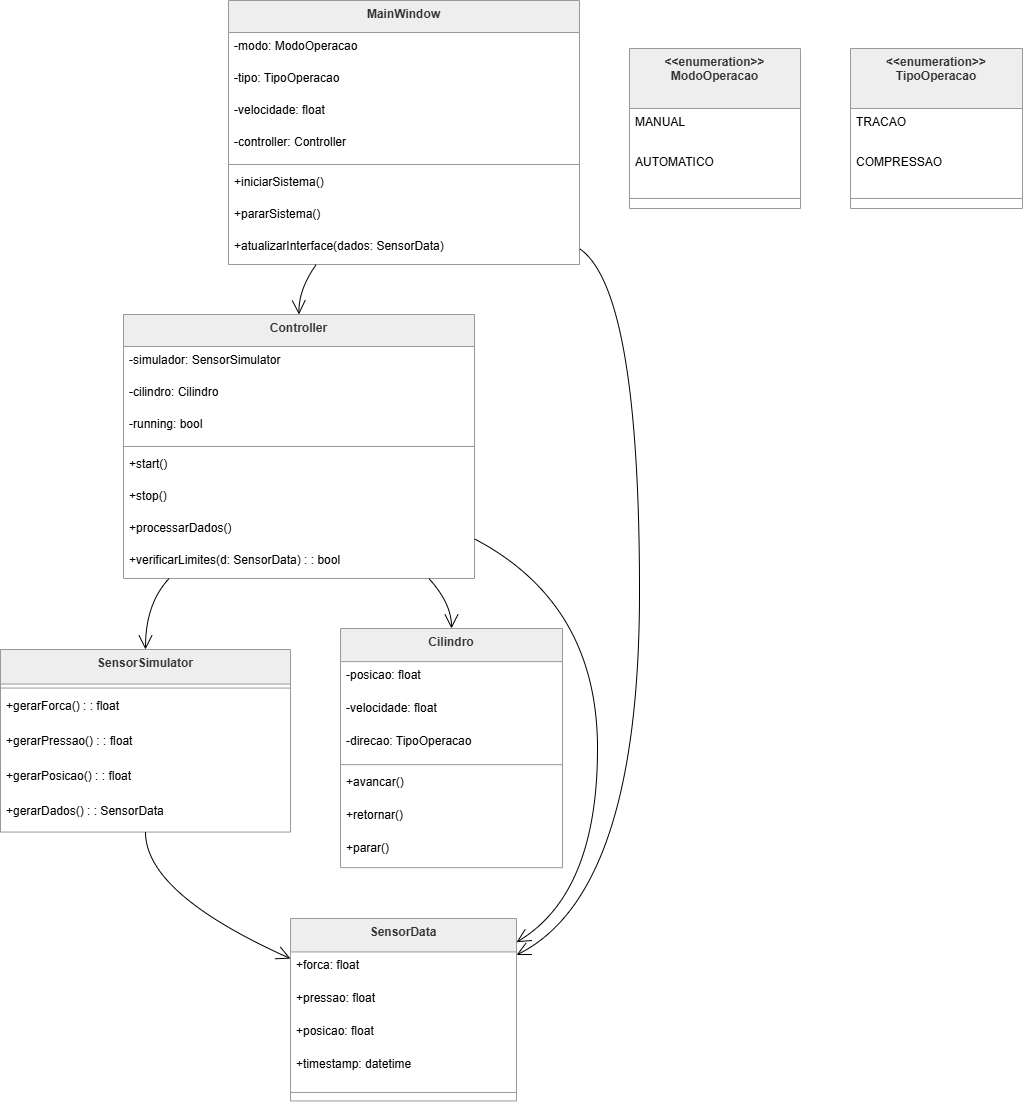
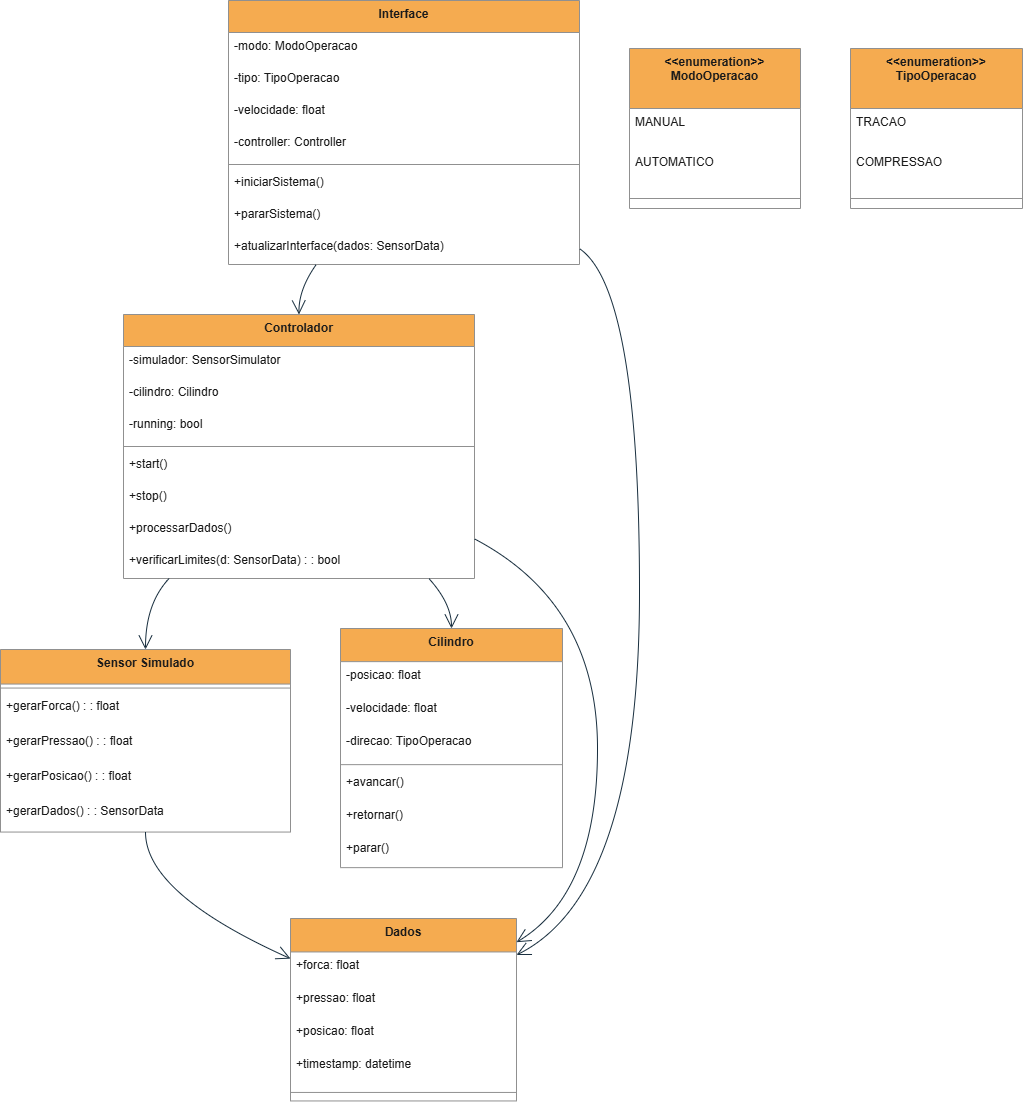
update_readme

diff --git a/README.md b/README.md
@@ -5,31 +5,31 @@ Repositório destinado ao desenvolvimento do projeto final da disciplina **PRG22
 
 ---
 
-## 👨🎓 Informações
+## Informações
 
 - **Aluno:** Anderson Martins Lorenzoni  
 - **Professor:** Hugo Marcondes  
 
 ---
 
-## 📌 Objetivo
+## Objetivo
 
 Desenvolver uma aplicação em **C++ utilizando o framework Qt** para simular o funcionamento de uma máquina de tração e compressão, com interface gráfica e geração de dados simulados.
 
 ---
 
-## 📑 Estrutura do Projeto
+## Estrutura do Projeto
 
 O projeto está organizado nas seguintes etapas:
 
-1. 📄 [Análise Orientada a Objetos](./analise.md)  
-2. 📐 [Projeto Orientado a Objetos](./projeto.md)  
-3. 💻 [Implementação (C++)](./implementacao.md)  
-4. 🧪 [Testes](./testes.md)  
+1. [Análise Orientada a Objetos](./analise.md)  
+2. [Projeto Orientado a Objetos](./projeto.md)  
+3. [Implementação (C++)](./implementacao.md)  
+4. [Testes](./testes.md)  
 
 ---
 
-## ⚙️ Tecnologias Utilizadas
+## Tecnologias Utilizadas
 
 - C++  
 - Qt Framework  
@@ -38,7 +38,7 @@ O projeto está organizado nas seguintes etapas:
 
 ---
 
-## 📊 Funcionalidades do Sistema
+## Funcionalidades do Sistema
 
 - Simulação de cilindro pneumático  
 - Modos de operação:
@@ -63,12 +63,8 @@ O projeto está organizado nas seguintes etapas:
 
 ---
 
-## 🧠 Observação
+## Observação
 
 Este projeto não utiliza sensores físicos. Todos os dados são gerados por simulação, respeitando intervalos e comportamentos realistas para representar o funcionamento de uma máquina de tração e compressão.
 
 ---
-
-## 📎 Organização do Repositório
-
-``

diff --git a/analise.md b/analise.md
@@ -5,7 +5,7 @@
 
 Este projeto tem como objetivo o desenvolvimento de uma aplicação para simulação de uma **máquina de tração e compressão**, utilizando o paradigma de Programação Orientada a Objetos, com implementação futura em C++ e framework Qt.
 
-A máquina simulada representa o comportamento de um cilindro pneumático, sendo capaz de executar movimentos de avanço (compressão) e retorno (tração). Nesta implementação, não serão utilizados sensores físicos; os dados de operação serão gerados de forma simulada, respeitando intervalos e comportamentos esperados.
+A máquina simulada representa o comportamento de um cilindro pneumático, sendo capaz de executar movimentos de avanço (compressão) e retorno (tração). Nesta implementação, não serão utilizados sensores físicos, os dados de operação serão gerados de forma simulada, respeitando intervalos e comportamentos esperados.
 
 O sistema permitirá ao usuário controlar e monitorar a operação da máquina por meio de uma interface gráfica interativa.
 
@@ -133,5 +133,8 @@ Essas definições servem como base para a próxima fase do desenvolvimento, cor
 
 ---
 
-📎 Próximo documento: `projeto.md`
-``
+<div align=center>
+
+[Voltar](README.md) | [Avançar](projeto.md)
+
+</div>